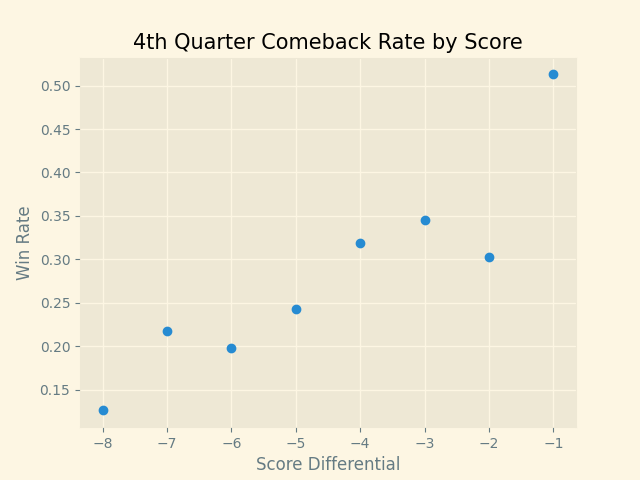
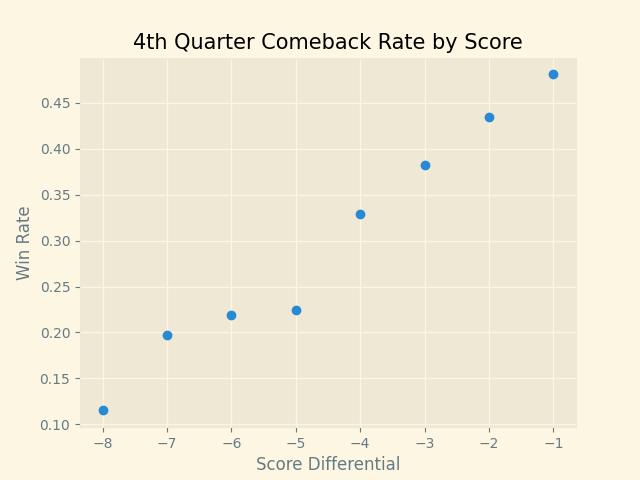
trying to do validation testing for threshold

diff --git a/notebooks/data_exploration.py b/notebooks/data_exploration.py
@@ -4,6 +4,9 @@ import os
 import matplotlib.pyplot as plt
 import numpy as np
 import ssl
+import json
+from datetime import datetime
+import joblib
 
 from sklearn.model_selection import train_test_split
 from sklearn.ensemble import RandomForestClassifier
@@ -27,12 +30,13 @@ def load_comeback_data(years=list(range(2015,2025))):
     
     columns = [
         'game_id','qtr', 'home_team', 'away_team', 'posteam', 'defteam','game_seconds_remaining', 'score_differential',
-        'yardline_100', 'down', 'ydstogo', 'temp', 'goal_to_go',
-        'posteam_timeouts_remaining', 'defteam_timeouts_remaining',
-         'epa', 'wind', 'kick_distance', 'qb_epa', 'posteam_score', 'defteam_score', 'total_home_comp_air_epa', 'total_away_comp_air_epa',
-         'div_game', 'result', 'season', 'drive', 'drive_play_count'
+        'yardline_100', 'down', 'ydstogo', 'goal_to_go', 'defteam_timeouts_remaining',
+        'posteam_timeouts_remaining', 'epa', 'kick_distance', 'qb_epa', 'posteam_score', 
+        'defteam_score', 
+         'result', 'season', 'drive', 'drive_play_count'
     ]
-
+#'total_home_comp_air_epa', 'total_away_comp_air_epa',
+#'temp', 'wind', 
     def _download_and_cache_full_pbp():
         print(f"Downloading PBP data for years: {years}...")
         full_pbp = nfl.load_pbp(years).to_pandas()
@@ -77,20 +81,23 @@ def load_comeback_data(years=list(range(2015,2025))):
 
     df['won_game'] = df.apply(determine_win, axis=1)
 
-    comeback_df = df[(df['score_differential'] < 0) & (df['score_differential'] >= -8)].copy()
-    comeback_df = comeback_df.sort_values(['game_id', 'game_seconds_remaining'], ascending=[True, False])
+    drive_df = df.sort_values(['game_id', 'game_seconds_remaining'], ascending=[True, False]).copy()
+    drive_df['is_drive_start'] = (
+        drive_df.groupby(['game_id', 'posteam', 'drive']).cumcount() == 0
+    )
 
-    drive_start = comeback_df['posteam'] != comeback_df.groupby('game_id')['posteam'].shift(1)
-    comeback_df['drive_id'] = drive_start.groupby(comeback_df['game_id']).cumsum()
+    comeback_df = drive_df[
+        (drive_df['score_differential'] < 0)
+        & (drive_df['score_differential'] >= -8)
+        & (drive_df['is_drive_start'])
+        & (drive_df['down'] == 1)
+    ].copy()
 
-    last_drive = comeback_df.groupby(['game_id', 'posteam'])['drive_id'].transform('max')
-    comeback_df = comeback_df[comeback_df['drive_id'] == last_drive]
-   
     comeback_df = (
-        comeback_df.sort_values(['game_id', 'posteam', 'game_seconds_remaining'], ascending=[True, True, False])
+        comeback_df.sort_values(['game_id', 'posteam', 'game_seconds_remaining'], ascending=[True, True, True])
         .groupby(['game_id', 'posteam'], as_index=False)
-        .head(1)
-        .drop(columns=['drive_id'])
+        .tail(1)
+        .drop(columns=['is_drive_start'])
     )
     print("after head(1) per team:", comeback_df.shape)
     print(comeback_df.groupby("game_id").size().value_counts().sort_index().head(10))
@@ -157,6 +164,7 @@ def add_avg_drive_play_count(df):
     df['off_avg_drive_play_count_prior'] = df['off_avg_drive_play_count_prior'].fillna(0.0)
     return df
 
+
 def plot_win_probability_groups(df):
     win_rate_groups = df.groupby('score_differential')['won_game'].mean().reset_index().rename(columns = {'won_game': 'win_percent'})
     x = win_rate_groups['score_differential']
@@ -182,11 +190,11 @@ def prep_train_data(df):
     test_df  = test_df.drop(columns=string_columns)
     val_df   = val_df.drop(columns=string_columns)
 
-    X_train = train_df.drop(columns=['won_game', 'result', 'epa', 'qb_epa','season', 'drive', 'drive_play_count']).fillna(0)
+    X_train = train_df.drop(columns=['won_game', 'result', 'epa', 'qb_epa','season', 'drive', 'drive_play_count', 'qtr', 'goal_to_go']).fillna(0)
     y_train = train_df['won_game']
-    X_test  = test_df.drop(columns=['won_game', 'result', 'epa', 'qb_epa','season', 'drive', 'drive_play_count']).fillna(0)
+    X_test  = test_df.drop(columns=['won_game', 'result', 'epa', 'qb_epa','season', 'drive', 'drive_play_count','qtr', 'goal_to_go']).fillna(0)
     y_test  = test_df['won_game']
-    X_val   = val_df.drop(columns=['won_game', 'result', 'epa', 'qb_epa','season', 'drive', 'drive_play_count']).fillna(0)
+    X_val   = val_df.drop(columns=['won_game', 'result', 'epa', 'qb_epa','season', 'drive', 'drive_play_count','qtr', 'goal_to_go']).fillna(0)
     y_val   = val_df['won_game']
 
     return X_train, X_test, y_train, y_test, X_val, y_val, train_groups
@@ -271,7 +279,7 @@ def train_lightgbm_model(X_train, X_test, y_train, y_test, X_val, y_val, train_g
     search = RandomizedSearchCV(
         estimator = lightgbm_base,
         param_distributions= rs_params,
-        n_iter = 25,
+        n_iter = 40,
         scoring = 'f1',
         cv = gkf,
         random_state=42,
@@ -288,26 +296,63 @@ def train_lightgbm_model(X_train, X_test, y_train, y_test, X_val, y_val, train_g
     calibrated_rf.fit(X_train, y_train, groups = train_groups)
 
     val_probs = calibrated_rf.predict_proba(X_val)[:,1]
-    thresholds = np.arange(0.05, 0.98, 0.02)
-    best_t = 0.2
-    best_r = -1
-    best_p = 0
-    best_f1 = 0
-    precision_floor = 0.45
-    for t in thresholds:
-        preds = (val_probs >= t).astype(int)
-        r = recall_score(y_val, preds)
-        p = precision_score(y_val, preds, zero_division = 0)
-        f = f1_score(y_val, preds)
-        if (f>best_f1) & (p>precision_floor):
-            best_r = r
-            best_p = p
-            best_t = t
-            best_f1 = f
-    print("Best Threshold: " + str(best_t))
-    print("Best Recall: " + str(best_r))
-    print("Best Precision: " + str(best_p))
-    print("Best F1-Score: " + str(best_f1))
+    thresholds = np.arange(0.05, 0.98, 0.01)
+    fp_penalties = np.arange(0.45, 1.0, 0.05)
+    precision_floors = np.arange(0.3, 0.6, 0.02)
+    
+    best = {
+    "threshold": 0.5,
+    "precision_floor": None,
+    "fp_penalty": None,
+    "f1": 0.0,
+    "precision": 0.0,
+    "recall": 0.0,
+    "fp_rate": 0.0,
+    }
+
+    for pf in precision_floors:
+        for pen in fp_penalties:
+            for t in thresholds:
+                preds = (val_probs >= t).astype(int)
+
+                p = precision_score(y_val, preds, zero_division=0)
+                r = recall_score(y_val, preds)
+                f = f1_score(y_val, preds)
+
+                tn, fp, fn, tp = confusion_matrix(y_val, preds).ravel()
+                fp_rate = fp / (fp + tn) if (fp + tn) > 0 else 0.0
+
+                if p < pf:
+                    continue
+                if fp_rate > 0.5:
+                    continue
+    
+                if f > best["f1"]:
+                    best.update({
+                    "threshold": t,
+                    "precision_floor": pf,
+                    "fp_penalty": pen,
+                    "f1": f,
+                    "precision": p,
+                    "recall": r,
+                    "fp_rate": fp_rate,
+                    })
+
+    if best["precision_floor"] is None:
+        best_f1 = -1
+        best_t = 0.5
+        for t in thresholds:
+            preds = (val_probs >= t).astype(int)
+            f = f1_score(y_val, preds)
+            if f > best_f1:
+                best_f1 = f
+                best_t = t
+        best["threshold"] = best_t
+        best["f1"] = best_f1
+
+    print("Best settings:", best)
+    best_t = best["threshold"]
+
 
     test_probs = calibrated_rf.predict_proba(X_test)[:,1]
     predictions = (test_probs >= best_t).astype(int)
@@ -362,6 +407,69 @@ def plot_smart_importance(calibrated_model, X_train):
     plt.tight_layout()
     plt.savefig("results/plots/feature_importance_universal.png")
 
+def save_baseline_model(model, threshold, feature_names, model_name="lgbm_calibrated_baseline", reports=None):
+    os.makedirs("models", exist_ok=True)
+    timestamp = datetime.now().strftime("%Y%m%d_%H%M%S")
+    model_path = f"models/{model_name}_{timestamp}.joblib"
+    meta_path = f"models/{model_name}_{timestamp}.json"
+
+    joblib.dump(model, model_path)
+    metadata = {
+        "saved_at": timestamp,
+        "model_name": model_name,
+        "threshold": float(threshold),
+        "feature_names": list(feature_names)
+    }
+    if reports is not None:
+        metadata["classification_reports"] = reports
+    with open(meta_path, "w", encoding="utf-8") as f:
+        json.dump(metadata, f, indent=2)
+
+    print(f"Saved model: {model_path}")
+    print(f"Saved metadata: {meta_path}")
+
+def analyze_errors(model, X, y, threshold, split_name="test"):
+    probs = model.predict_proba(X)[:, 1]
+    preds = (probs >= threshold).astype(int)
+
+    eval_df = X.copy()
+    eval_df["y_true"] = y.to_numpy()
+    eval_df["y_pred"] = preds
+    eval_df["proba"] = probs
+
+    eval_df["error_type"] = "correct"
+    eval_df.loc[(eval_df["y_true"] == 1) & (eval_df["y_pred"] == 0), "error_type"] = "FN"
+    eval_df.loc[(eval_df["y_true"] == 0) & (eval_df["y_pred"] == 1), "error_type"] = "FP"
+
+    print(f"\n{split_name.upper()} error counts")
+    print(eval_df["error_type"].value_counts())
+
+    if "game_seconds_remaining" in eval_df.columns:
+        eval_df["time_bin"] = pd.cut(
+            eval_df["game_seconds_remaining"],
+            bins=[0, 120, 300, 600, 900, 3600],
+            labels=["0-2m", "2-5m", "5-10m", "10-15m", "15m+"],
+            include_lowest=True
+        )
+        print(f"\n{split_name.upper()} error share by time_bin")
+        print(pd.crosstab(eval_df["time_bin"], eval_df["error_type"], normalize="index"))
+
+    if "score_differential" in eval_df.columns:
+        eval_df["score_bin"] = pd.cut(
+            eval_df["score_differential"],
+            bins=[-9, -6, -4, -2, 0],
+            labels=["-8:-7", "-6:-5", "-4:-3", "-2:-1"],
+            include_lowest=True
+        )
+        print(f"\n{split_name.upper()} error share by score_bin")
+        print(pd.crosstab(eval_df["score_bin"], eval_df["error_type"], normalize="index"))
+
+    if "down" in eval_df.columns:
+        print(f"\n{split_name.upper()} error share by down")
+        print(pd.crosstab(eval_df["down"], eval_df["error_type"], normalize="index"))
+
+    return eval_df
+
 
 df = load_comeback_data()
 plot_win_probability_groups(df)
@@ -381,7 +489,16 @@ val_probs = calibrated_lgbm.predict_proba(X_val)[:,1]
 val_preds = (val_probs>=best_t).astype(int)
 
 print(classification_report(y_val, val_preds))
+test_probs = calibrated_lgbm.predict_proba(X_test)[:,1]
+test_preds = (test_probs>=best_t).astype(int)
 
+reports = {
+    "train": classification_report(y_train, train_preds, output_dict=True),
+    "val": classification_report(y_val, val_preds, output_dict=True),
+    "test": classification_report(y_test, test_preds, output_dict=True)
+}
+save = False
+if save == True:
+    save_baseline_model(calibrated_lgbm, best_t, X_train.columns, reports=reports)
 
-
-
+error_df = analyze_errors(calibrated_lgbm, X_test, y_test, best_t, split_name="test")
